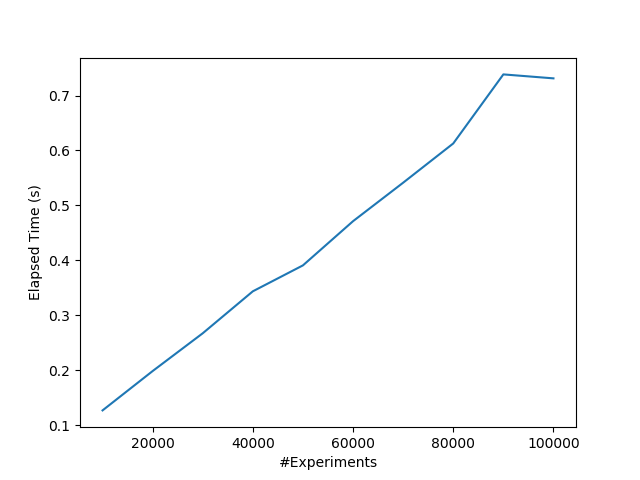
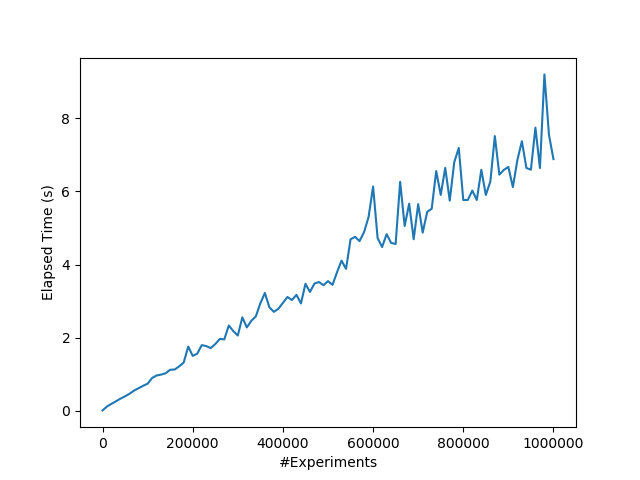
Fixed small bug in plots, plots are redone

diff --git a/applications/PI_SQUARE/plot_graphics.py b/applications/PI_SQUARE/plot_graphics.py
@@ -4,7 +4,7 @@ import numpy as np
 import time
 
 def main():
-  sizes = list(range(10000, 10000001, 10000))
+  sizes = list(range(0, 1000001, 10000))
   values, times = [], []
 
   for size in sizes:
@@ -17,8 +17,8 @@ def main():
 
   plt.figure('Experiments vs Value')
   plt.xlabel('#Experiments')
-  plt.ylabel('Elapsed Time (s)')
-  plt.ylim([np.pi - 0.1, np.pi + 0.1])
+  plt.ylabel('Value')
+  plt.ylim([np.pi - 0.05, np.pi + 0.05])
   # Draw the correct value of pi as a reference
   pi_plot, = plt.plot([sizes[0], sizes[-1]], [np.pi, np.pi], color = 'yellow', label = '$\pi$')
   approx_plot, = plt.plot(sizes, values, color = 'blue', label = 'approximation')
@@ -27,7 +27,7 @@ def main():
 
   plt.figure('Experiments vs Time')
   plt.xlabel('#Experiments')
-  plt.ylabel('Value')
+  plt.ylabel('Elapsed Time (s)')
   plt.plot(sizes, times)
   plt.savefig('pi_size_vs_time.png')
 
